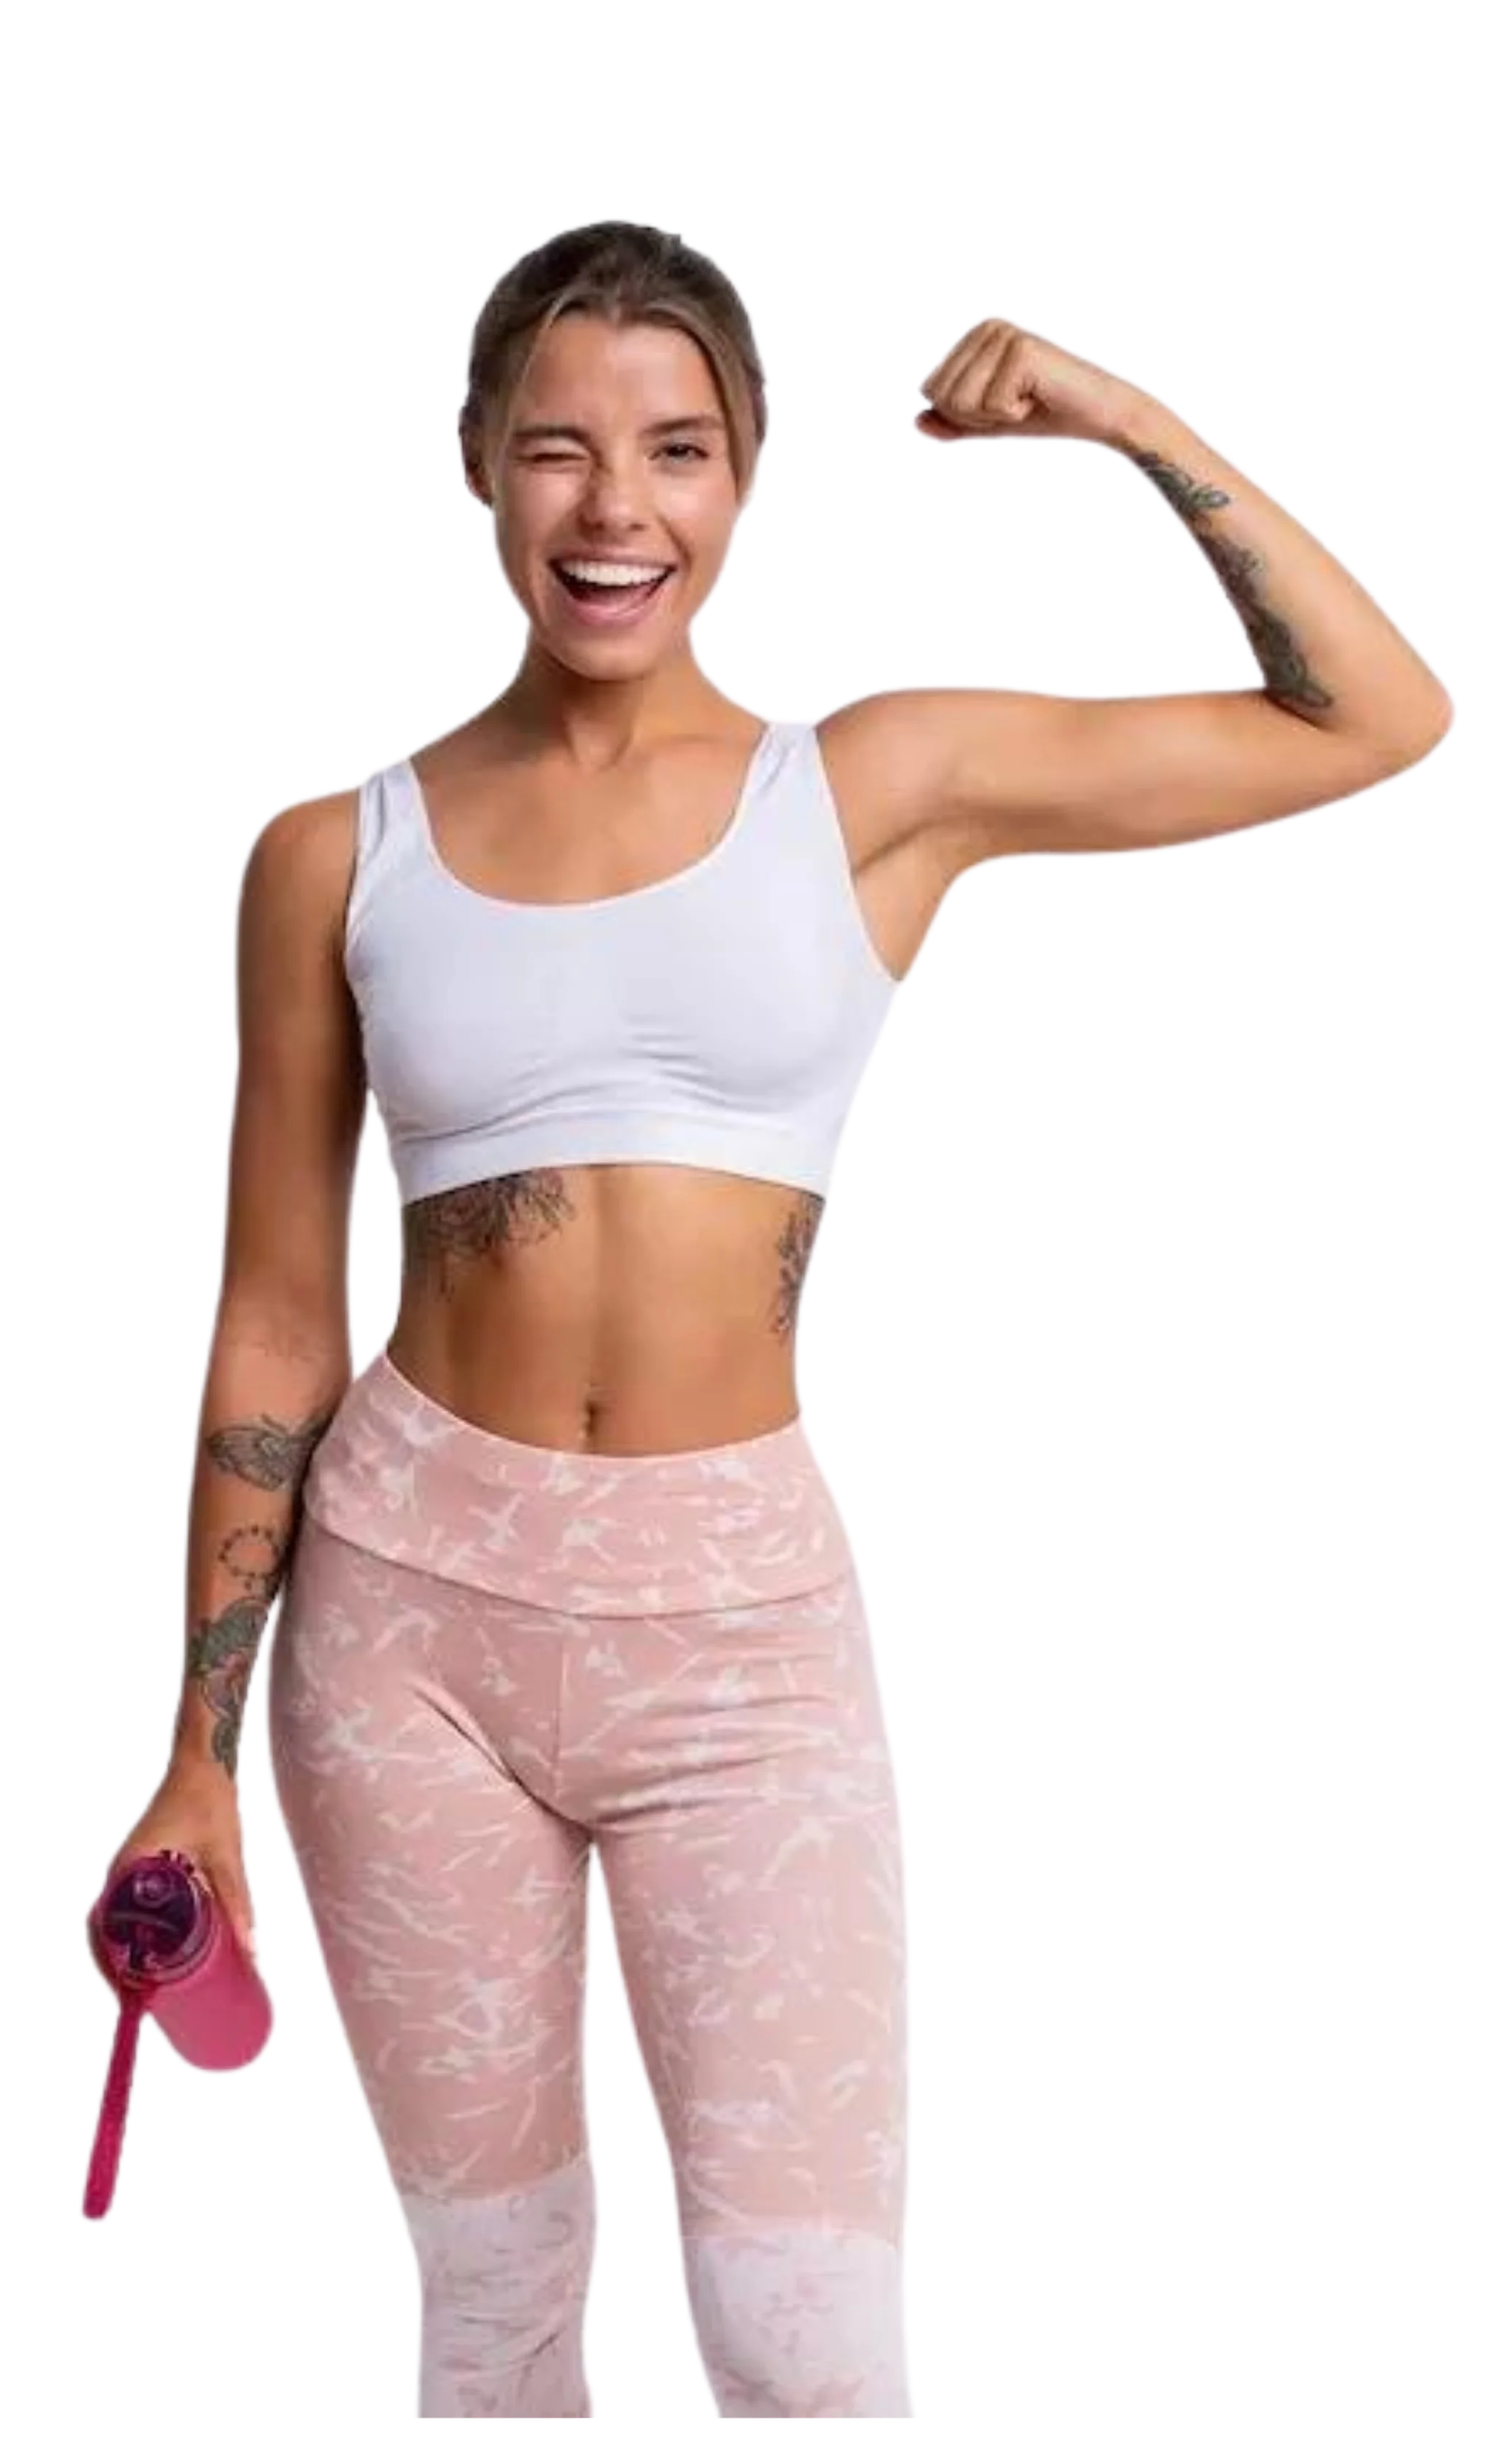
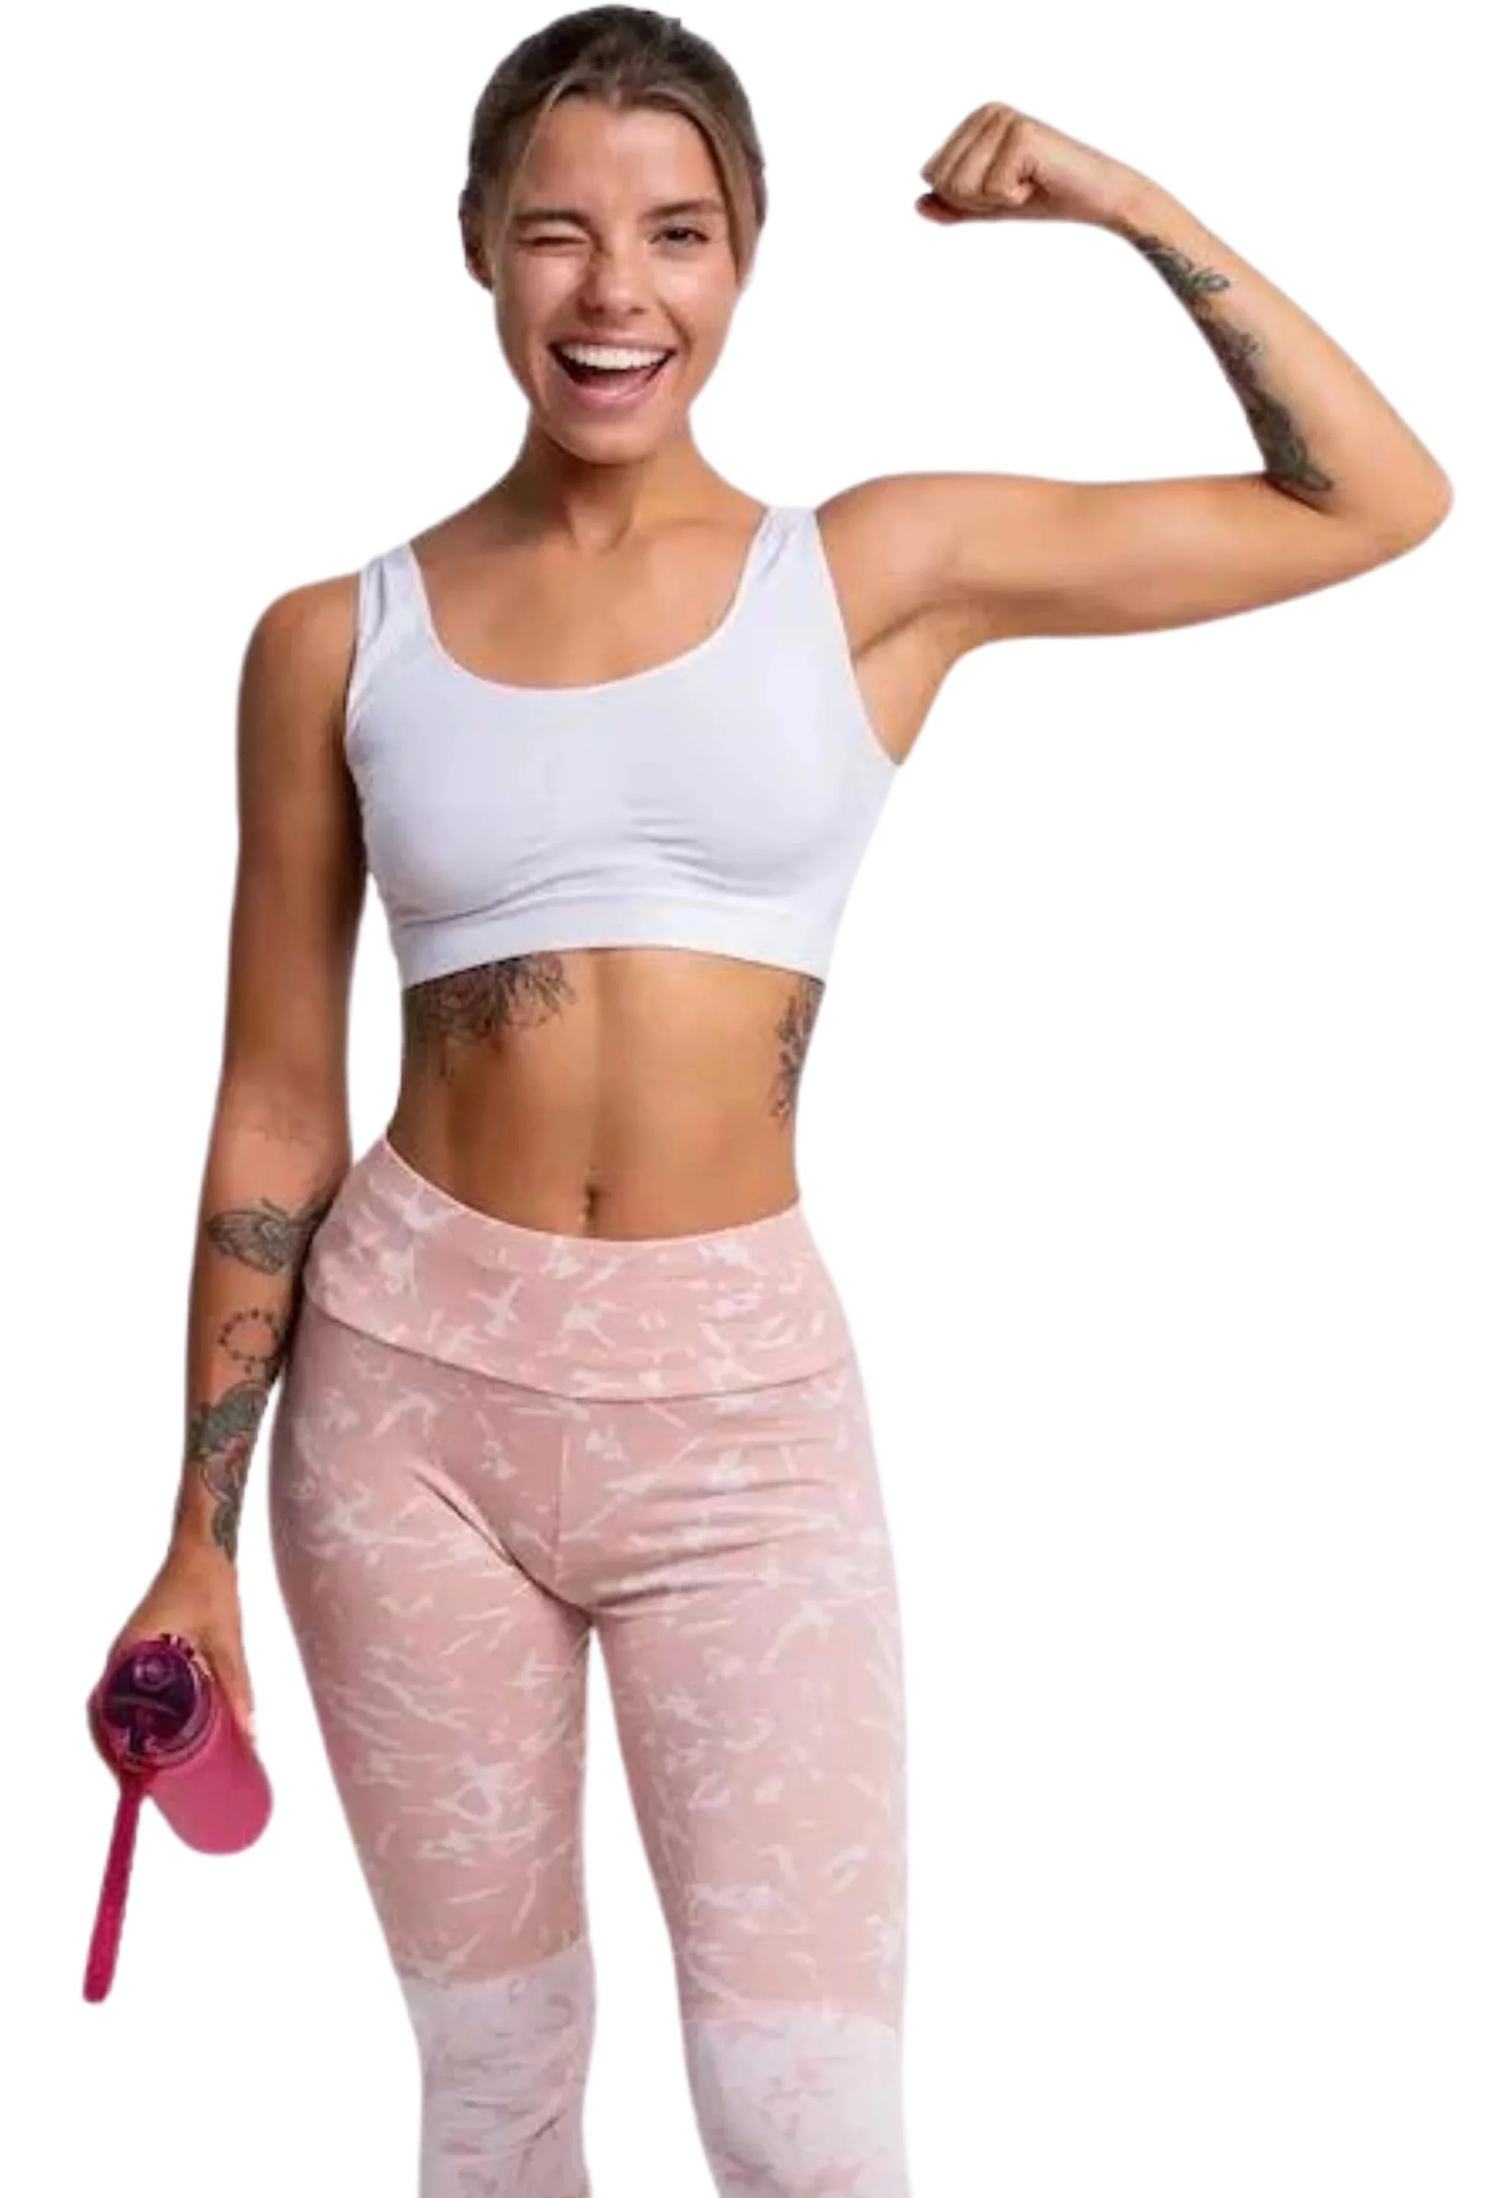
styles: Arreglando home altura

diff --git a/src/sections/product/index.tsx b/src/sections/product/index.tsx
@@ -1,4 +1,4 @@
-'use client'
+"use client";
 
 import Image from "next/image";
 
@@ -13,15 +13,15 @@ export default function Product() {
   return (
     <div
       id="vitalyplus"
-      className="w-full h-auto bg-white pt-24 pb-12 px-4 md:px-8 lg:px-10 xl:px-16 2xl:px-48"
+      className="w-full h-auto bg-white px-4 md:px-8 lg:px-10 xl:px-16 2xl:px-48"
     >
       <div className="w-full flex flex-col lg:flex-row lg:justify-between items-center lg:gap-10">
-        <div className="w-full lg:w-1/2 flex flex-col justify-center items-center lg:items-start">
-          <h3 className="text-black text-[40px] md:text-[45px] leading-tight font-[800] text-center lg:text-left">
+        <div className="w-full lg:w-1/2 py-4 lg:py-0 flex flex-col justify-center items-center lg:items-start">
+          <h3 className="text-black text-[40px] md:text-[45px] leading-tight font-[700] text-center lg:text-left">
             <span className="text-red-600">Qué es</span> <br /> Vitaly{" "}
             <span className="text-red-600">Plus?</span>
           </h3>
-          <p className="text-black font-bold text-[20px] md:text-[22px] text-center lg:text-left">
+          <p className="text-black font-extralight text-[20px] md:text-[22px] text-center lg:text-left">
             The leading health and beauty product
           </p>
 
@@ -44,18 +44,18 @@ export default function Product() {
           </span>
         </div>
 
-        <div className="relative py-5 lg:flex lg:justify-end lg:items-center">
+        <div className="relative lg:flex lg:justify-end lg:items-center">
           <Image
             src="/personaSaludable2.webp"
             width={400}
             height={400}
             alt="mujer saludable"
-            className="lg:w-[500px] object-cover"
+            className="lg:w-[500px] object-cover pt-5"
           />
 
+          {/* <div className="absolute bottom-0 left-0 w-full h-[20%] bg-gradient-to-t from-white to-transparent" />
           <div className="absolute bottom-0 left-0 w-full h-[20%] bg-gradient-to-t from-white to-transparent" />
-          <div className="absolute bottom-0 left-0 w-full h-[20%] bg-gradient-to-t from-white to-transparent" />
-          <div className="absolute bottom-0 left-0 w-full h-[20%] bg-gradient-to-t from-white to-transparent" />
+          <div className="absolute bottom-0 left-0 w-full h-[20%] bg-gradient-to-t from-white to-transparent" /> */}
         </div>
       </div>
     </div>

diff --git a/src/sections/parallax/index.tsx b/src/sections/parallax/index.tsx
@@ -3,7 +3,7 @@ import React from "react";
 
 export default function Parallax() {
   return (
-    <div className="relative w-full h-[600px]">
+    <div className="relative w-full h-[700px]">
       {/* Imagen de fondo con efecto parallax */}
       <div
         className="absolute top-0 left-0 h-full w-full bg-cover bg-center bg-fixed block lg:hidden"
@@ -20,7 +20,7 @@ export default function Parallax() {
       {/* Contenido superpuesto */}
       <div className="relative flex flex-col justify-center items-center h-full bg-black bg-opacity-50">
         <Image src="/LogoVidaNaturalBlanco.webp" width={200} height={200} alt="logovidanatural"/>
-        <h1 className="text-white text-[45px] font-bold text-center mt-12 mb-12">
+        <h1 className="text-white text-[45px] font-semibold text-center mt-12 mb-12">
           Una vida más saludable.
         </h1>
       </div>

diff --git a/src/sections/fourSteps/index.tsx b/src/sections/fourSteps/index.tsx
@@ -18,9 +18,9 @@ export default function FourSteps() {
             <Image
               src="/carolinaPapaleo2.webp"
               alt="Carolina Papaleo"
-              width={450}
-              height={450}
-              className="rounded-lg shadow-lg object-cover lg:w-[800px]"
+              width={1000}
+              height={1000}
+              className="rounded-lg shadow-lg object-cover lg:w-[700px]"
             />
             {/* <div className="absolute bottom-0 left-0 w-full h-[20%] bg-gradient-to-t from-white to-transparent" />
             <div className="absolute bottom-0 left-0 w-full h-[20%] bg-gradient-to-t from-white to-transparent" />

diff --git a/src/sections/footer/index.tsx b/src/sections/footer/index.tsx
@@ -21,7 +21,7 @@ export default function Footer() {
             Enviar
           </button>
         </div>
-        <div className="mt-8 text-xs w-full flex flex-col justify-center items-center opacity-80">
+        <div className="mt-8 text-xs w-full flex flex-col justify-center items-center opacity-80 bg-red-500">
           <p>Copyright © 2024. All rights reserved.</p>
           <Image
             src="/LogoVidaNaturalBlanco.webp"

diff --git a/src/sections/benefits/index.tsx b/src/sections/benefits/index.tsx
@@ -82,8 +82,8 @@ export default function Benefits() {
         <p className="pb-4 text-[17px]">For digestive health and support</p>
         <Image
           src="/adultoSaludable.webp"
-          width={400}
-          height={400}
+          width={200}
+          height={200}
           alt="icono saludable"
           className="w-full rounded-sm"
         />

diff --git a/src/sections/home/index.tsx b/src/sections/home/index.tsx
@@ -12,7 +12,7 @@ export default function Home() {
   };
 
   return (
-    <div id="inicio" className="relative w-full h-screen lg:h-[52vh]">
+    <div id="inicio" className="relative w-full h-screen lg:h-[720px]">
       <div className="hidden lg:block absolute bottom-0 left-0 w-full h-[12vh] bg-white z-10" />
       <Image
         src="/FondoRedHome.webp"
